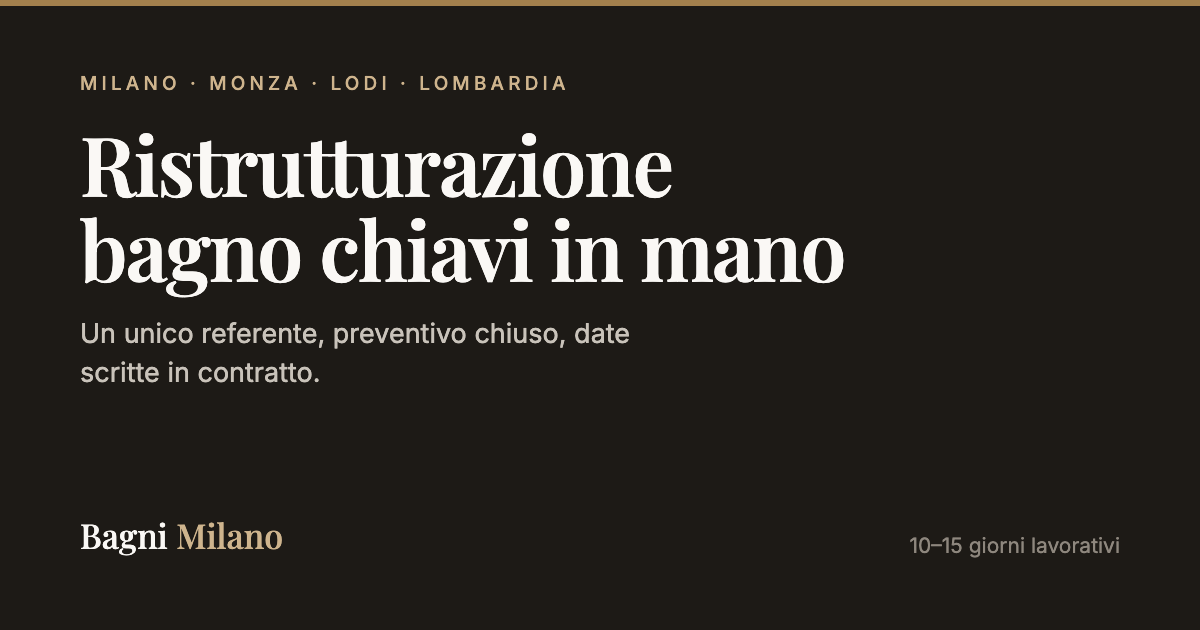
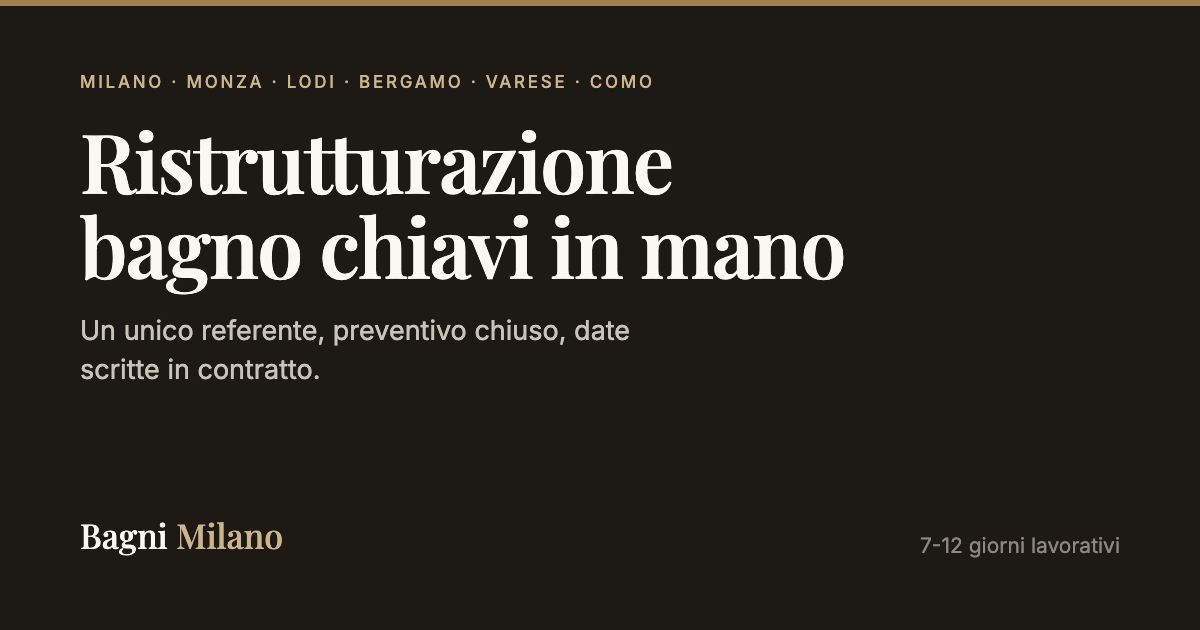
Province anche nell'occhiello dell'hero e nell'anteprima social
L'occhiello sopra l'H1 elencava solo Milano, Monza, Lodi e Lombardia mentre le
landing di Bergamo, Varese e Como sono pubblicate: era l'ultima incoerenza
rimasta sulla copertura territoriale. Aggiornata anche l'immagine Open Graph,
con spaziatura ridotta perche' i sei nomi non andassero a capo.

diff --git a/scripts/generate-assets.ts b/scripts/generate-assets.ts
@@ -28,7 +28,7 @@ const og = `<!doctype html><meta charset="utf-8">${FONTS}<style>
        font-family:Inter,system-ui,sans-serif;display:flex;flex-direction:column;
        justify-content:space-between;padding:72px 80px;overflow:hidden;position:relative}
   .rule{position:absolute;left:0;right:0;top:0;height:6px;background:${BRASS}}
-  .eyebrow{font-size:19px;letter-spacing:.22em;text-transform:uppercase;color:${BRASS_LIGHT};font-weight:500}
+  .eyebrow{font-size:17px;letter-spacing:.16em;text-transform:uppercase;color:${BRASS_LIGHT};font-weight:500}
   h1{font-family:"Playfair Display",Georgia,serif;font-weight:600;font-size:82px;line-height:1.04;
      letter-spacing:-.02em;max-width:15ch}
   .sub{font-size:27px;color:#C9C3BA;max-width:34ch;line-height:1.45;margin-top:22px}
@@ -37,7 +37,7 @@ const og = `<!doctype html><meta charset="utf-8">${FONTS}<style>
   .brand span{color:${BRASS_LIGHT}}
 </style>
 <div class="rule"></div>
-<div><p class="eyebrow">Milano · Monza · Lodi · Lombardia</p>
+<div><p class="eyebrow">Milano · Monza · Lodi · Bergamo · Varese · Como</p>
   <h1 style="margin-top:26px">Ristrutturazione bagno chiavi in mano</h1>
   <p class="sub">Un unico referente, preventivo chiuso, date scritte in contratto.</p></div>
 <footer><p class="brand">Bagni <span>Milano</span></p><p>7-12 giorni lavorativi</p></footer>`;

diff --git a/src/pages/HomePage.tsx b/src/pages/HomePage.tsx
@@ -69,7 +69,7 @@ export default function HomePage() {
         </div>
 
         <div className="container-x flex min-h-[560px] flex-col items-center justify-center py-24 text-center sm:min-h-[640px] sm:py-32">
-          <p className="eyebrow">Milano · Monza · Lodi · Lombardia</p>
+          <p className="eyebrow">Milano · Monza · Lodi · Bergamo · Varese · Como</p>
           <h1 className="mt-6 max-w-4xl">Ristrutturazione bagno a Milano, chiavi in mano</h1>
           <div className="rule-gold my-8" />
           <p className="font-accent text-[clamp(1.25rem,2.6vw,1.75rem)] italic leading-snug text-cream/85 max-w-2xl">
